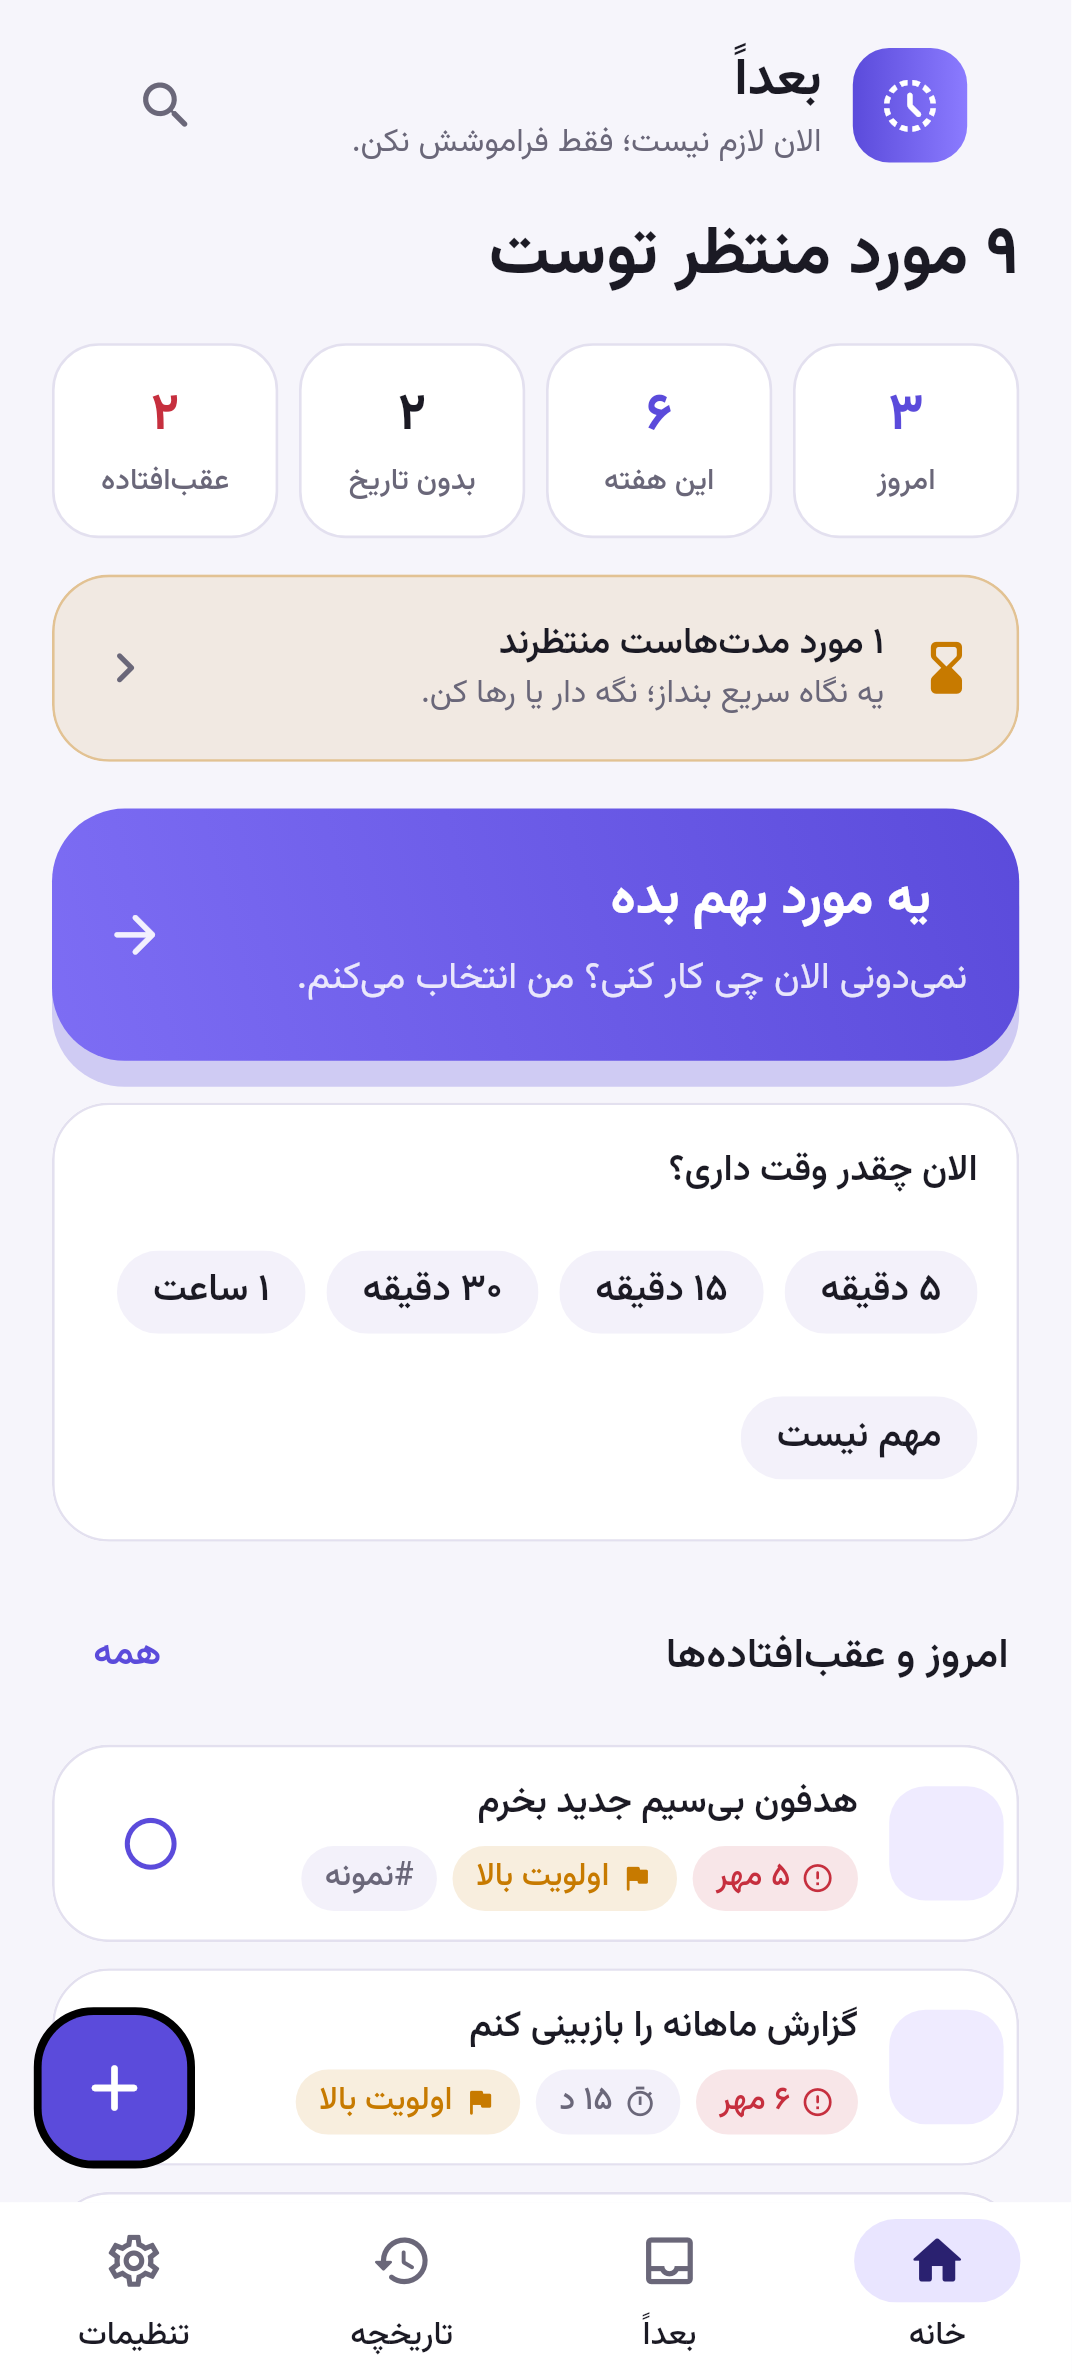
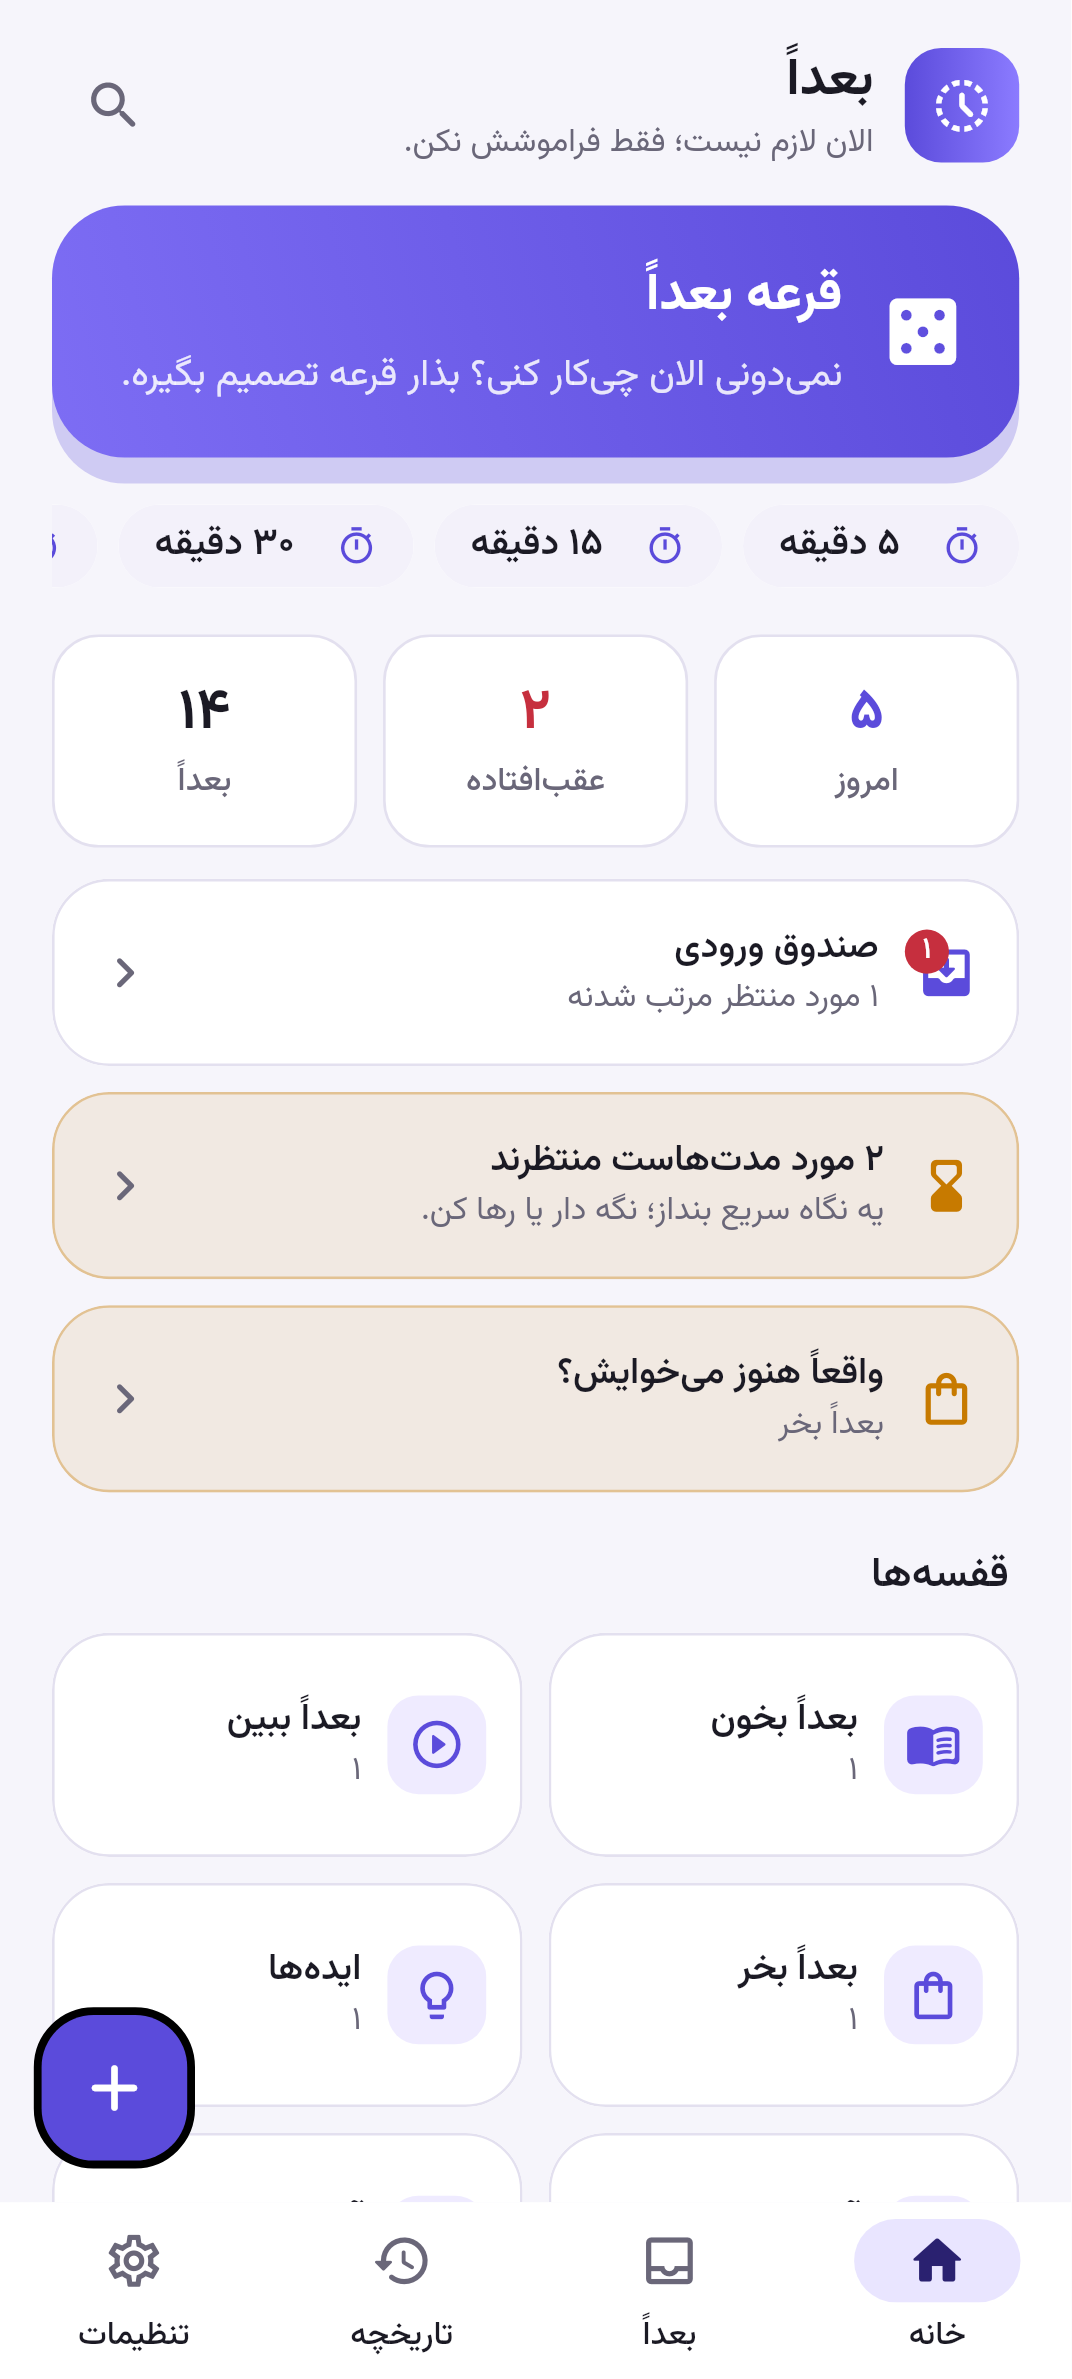
Support email, updated legal texts, new store listing and screenshots
Claude-Session: https://claude.ai/code/session_01BB7qb9wvzwSuojfatziWR9

diff --git a/test/screenshots_test.dart b/test/screenshots_test.dart
@@ -31,6 +31,7 @@ void main() {
       ..addFont(Future.value(ByteData.sublistView(
           File('$root/bin/cache/artifacts/material_fonts/MaterialIcons-Regular.otf').readAsBytesSync())));
     await icons.load();
+    FocusManager.instance.highlightStrategy = FocusHighlightStrategy.alwaysTouch;
     final out = Directory('store/assets/screenshots')..createSync(recursive: true);
     final key = GlobalKey();
     Future<void> shot(String name) async {
@@ -62,6 +63,32 @@ void main() {
       await env.controller.complete(items[8].id);
       await env.controller.pro.applyPurchase(ProPlans.month1);
     });
+    await tester.runAsync(() async {
+      final c = env.controller;
+      Future<void> add(String title, ItemType t, {String? url, int stage = 0, Map<String, Object?> extra = const {}, int ago = 3}) async {
+        final n = c.now();
+        final i = LaterItem(
+          id: 's${title.hashCode}',
+          title: title,
+          categoryId: 'other',
+          createdAt: n.subtract(Duration(days: ago)),
+          updatedAt: n,
+          type: t,
+          stage: stage,
+          url: url,
+          extra: extra,
+        );
+        await c.saveNew(i);
+      }
+
+      await add('مقالهی «قدرت عادتهای کوچک»', ItemType.read, url: 'https://example.com/habits');
+      await add('سخنرانی دربارهی تمرکز', ItemType.watch, url: 'https://www.youtube.com/watch?v=abc');
+      await add('هدفون بیسیم', ItemType.wishlist, extra: {'price': 2400000, 'currency': 'تومان'}, ago: 40);
+      await add('اپ یادآور آبخوردن', ItemType.idea, ago: 20);
+      await c.quickAdd('کتاب فیزیک کوانتوم');
+      await c.addPerson('سارا');
+      await c.seal(title: 'نامه به خودِ یکسالهی بعد', body: 'سلام', unlockAt: DateTime(2027, 6, 1));
+    });
     await show(env);
     await shot('01_home');
     await tester.tap(find.text(fa.navList).last);
@@ -69,17 +96,38 @@ void main() {
     await tester.tap(find.text(fa.navHome).last);
     await settle(tester);
     await tester.tap(find.text(fa.pickCardTitle));
-    await shot('03_decide');
+    await settle(tester);
+    await tester.tap(find.text(fa.roulettePick));
+    await settle(tester, rounds: 30);
+    await shot('03_roulette');
+    tester.state<NavigatorState>(find.byType(Navigator).first).pop();
+    await settle(tester);
+    await tester.ensureVisible(find.text(fa.shelfWishTitle).first);
+    await settle(tester);
+    await tester.tap(find.text(fa.shelfWishTitle).first);
+    await settle(tester);
+    await shot('04_wishlist');
+    tester.state<NavigatorState>(find.byType(Navigator).first).pop();
+    await settle(tester);
+    await tester.ensureVisible(find.text(fa.shelfFutureTitle).first);
+    await settle(tester);
+    await tester.tap(find.text(fa.shelfFutureTitle).first);
+    await settle(tester);
+    await shot('05_future');
+    tester.state<NavigatorState>(find.byType(Navigator).first).pop();
+    await settle(tester);
+    await tester.tap(find.text(fa.dashInbox).first);
+    await shot('06_inbox');
     tester.state<NavigatorState>(find.byType(Navigator).first).pop();
     await settle(tester);
     await tester.tap(find.byIcon(Icons.add_rounded).first);
     await settle(tester);
     await tester.enterText(find.byType(TextFormField).first, 'این مقاله رو بخونم');
-    await shot('04_add');
+    await shot('07_add');
     await tester.tapAt(const Offset(200, 40));
     await settle(tester);
     await tester.tap(find.text(fa.navSettings).last);
-    await shot('05_settings');
-    expect(out.listSync().length, greaterThanOrEqualTo(5));
+    await shot('08_settings');
+    expect(out.listSync().length, greaterThanOrEqualTo(8));
   });
 }

diff --git a/lib/core/config/app_config.dart b/lib/core/config/app_config.dart
@@ -38,7 +38,7 @@ class AppConfig {
   static const int privacyVersion = 1;
 
   /// Contact address shown in About / store listing. Leave empty to hide.
-  static const String supportEmail = '';
+  static const String supportEmail = 'manseyed2000@gmail.com';
 
   /// Maximum number of pending notifications kept scheduled with the OS
   /// (Android limits the number of alarms an app may hold).

diff --git a/store/LISTING_fa.md b/store/LISTING_fa.md
@@ -6,47 +6,55 @@
 **دستهبندی پیشنهادی:** ابزارها / بهرهوری
 
 ## توضیح کوتاه (≤ ۸۰ نویسه)
-لیست «بعداً»: هر چیزی که الان وقتش نیست را نگه دار، بدون حساب کاربری و آفلاین.
+هر چیزی که الان وقتش نیست را نگه دار: مقاله، ویدیو، خرید، ایده. بدون حساب، آفلاین.
 
 ## توضیح کامل
-«بعداً» یک لیست کوچک، سریع و زیبا برای چیزهایی است که الان وقتشان نیست اما نمیخواهید فراموششان کنید: یک مقاله، یک فیلم، یک خرید، یک ایده، یک تماس.
+«بعداً» جای چیزهاییه که الان وقتشان نیست ولی نمیخواهی فراموششان کنی: یک مقاله، یک فیلم، یک خرید، یک ایده، یک تماس. سریع ذخیره میکنی، بعداً که وقت داشتی، برنامه کمکت میکند از بینشان انتخاب کنی.
 
 **چطور کار میکند**
-• فقط بنویسید «این مقاله رو بخونم» و ذخیره کنید؛ همهی فیلدها اختیاریاند.
-• از مرورگر یا هر برنامهی دیگری «اشتراکگذاری ← بعداً» را بزنید تا لینک خودکار ذخیره شود.
-• تاریخ و ساعت بدهید تا خودش یادآوری کند؛ یا ندهید و بگویید «یه مورد بهم بده».
-• «الان ۱۵ دقیقه وقت دارم» را بزنید تا موردهای مناسب پیشنهاد شود.
-• موردهای مانده را با «بعداً، نه هیچوقت» مرور کنید؛ نگه دارید یا با خیال راحت بیخیالش شوید.
+• فقط بنویس «این مقاله رو بخونم» و ذخیره کن. همهی فیلدها اختیاریاند.
+• از مرورگر یا هر برنامهی دیگری «اشتراکگذاری ← بعداً» را بزن. بپرس کجا نگهش دارم؛ اگر جوابی ندادی، در صندوق ورودی میماند و چیزی از دست نمیرود.
+• تاریخ و ساعت بده تا سر وقت یادآوری کند.
+• نمیدانی الان چه کار کنی؟ «قرعه بعداً» یکی را برایت انتخاب میکند.
+
+**قفسهها**
+• بعداً بخون: مقالهها و لینکها، با وضعیت نخوانده، در حال خواندن و خوانده.
+• بعداً ببین: ویدیو، فیلم و سریال.
+• بعداً بخر: قیمت را ثبت کن و بعد از مدتی بپرس «هنوز میخوایش؟».
+• ایدهها: ایدهها اینجا میمانند تا وقتش برسد.
+• آدمها: «بعداً به علی زنگ بزن». مخاطب را با انتخابگر خود سیستم انتخاب میکنی و بدون مجوز مخاطبین.
+• کپسول زمانی و پیام به خودِ آینده: چیزی را تا یک تاریخ از جلوی چشمت بردار. همان روز اعلان میآید و برمیگردد.
 
 **حریم خصوصی اول**
 • بدون حساب کاربری، بدون سرور، بدون تبلیغات و بدون ابزار تحلیل.
-• همهی اطلاعات فقط روی دستگاه شماست؛ نسخهی بازار مجوز اینترنت ندارد.
-• پشتیبانگیری و بازیابی با یک فایل `.later`.
+• همهی اطلاعات فقط روی گوشی خودت میماند؛ نسخهی بازار مجوز اینترنت ندارد.
+• پشتیبانگیری و بازیابی با یک فایل `.later`، شامل همهی بخشها.
 
-**امکانات رایگان:** ذخیرهی نامحدود، دستهبندی، جستجو، یادآوری، بهتعویقانداختن، پیشنهاد هوشمند پایه، اشتراکگذاری، تم روشن/تیره، ویجت، تقویم شمسی.
-**Pro (۱، ۳ یا ۶ ماهه):** پیشنهاد هوشمند پیشرفته، فیلتر و جستجوی پیشرفته، آمار و تاریخچهی کامل، دستههای بیشتر، یادآوری تکرارشونده، ویجت پیشرفته، تم و آیکونهای بیشتر، پشتیبان خودکار و خروجی CSV/متن. پایان اشتراک هیچ اطلاعاتی را پاک یا قفل نمیکند.
+**رایگان، بدون محدودیت اذیتکننده:** ذخیرهی نامحدود، صندوق ورودی، قرعهی پایه، همهی قفسهها، آدمها، کپسول و پیام (تا ۲ مورد قفلشده)، جستجو در همهچیز، یادآوری، اشتراکگذاری، تم روشن و تیره، ویجت، تقویم شمسی، پشتیبانگیری دستی.
+**Pro (۱، ۳ یا ۶ ماهه):** قرعهی هوشمند با فیلتر وقت و انرژی، پیشنهاد مقصد در صندوق ورودی، آمار و تاریخچهی کامل قفسهها، قیمت هدف و تاریخچهی قیمت، مرور ایدهها، تاریخچهی ارتباط با آدمها، کپسول و پیام نامحدود با پیوست، یادآوری تکرارشونده، رنگ و آیکون بیشتر، پشتیبان خودکار و خروجی CSV. پایان اشتراک هیچ اطلاعاتی را پاک یا قفل نمیکند.
 
 ## مجوزها و دلیل آنها
 | مجوز | دلیل |
 |---|---|
-| اعلانها (Android 13+) | نمایش یادآوریها؛ فقط هنگام اولین یادآوری پرسیده میشود |
+| اعلانها (Android 13+) | نمایش یادآوریها؛ در پایان معرفی اولیه پرسیده میشود |
 | هشدار دقیق | نمایش یادآوری سر وقت (اختیاری) |
 | اجرا پس از روشن شدن دستگاه | تنظیم مجدد یادآوریها بعد از ریستارت |
 | ارتباط با کافهبازار | فقط خرید Pro |
-| (بدون) اینترنت، مخاطبین، مکان، حافظه، میکروفون، دوربین | — |
+| (بدون) اینترنت، مخاطبین، مکان، حافظه، میکروفون، دوربین | مخاطب فقط از راه انتخابگر سیستم و بدون مجوز |
 
 ## محصولات درونبرنامهای (مصرفی)
 `later_pro_1m` = ۱۹٬۰۰۰ تومان · `later_pro_3m` = ۵۵٬۰۰۰ تومان · `later_pro_6m` = ۱۰۰٬۰۰۰ تومان
 
 ## داراییها
-`store/assets/icon_512.png`، `store/assets/feature_graphic_1024x500.png`، `store/assets/screenshots/*` (تولید با `flutter test tool/screenshots_test.dart`).
+`store/assets/icon_512.png`، `store/assets/feature_graphic_1024x500.png`، `store/assets/screenshots/*` (تولید با `SCREENSHOTS=1 flutter test test/screenshots_test.dart`).
 سیاست حریم خصوصی: متن `assets/legal/privacy_fa.txt` را روی یک صفحهی وب عمومی منتشر و نشانی را در پنل بازار وارد کنید (بازار آدرس URL میخواهد).
 
 ## چکلیست انتشار
 - [ ] کلید امضا ساخته و پشتیبانگیری شد (خارج از git)
 - [ ] `LATER_PRO_SIGNING_KEY` و `BAZAAR_RSA_KEY` تعیین شد
 - [ ] محصولات مصرفی در پنل بازار ساخته شد (SKU بالا)
-- [ ] `AppConfig.supportEmail` تنظیم شد؛ متنهای حقوقی توسط متخصص بازبینی شد
+- [x] `AppConfig.supportEmail` تنظیم شد (manseyed2000@gmail.com)
+- [ ] متنهای حقوقی را قبل از انتشار یک نفر آشنا بخواند
 - [ ] نسخهی آزمایشی روی دستگاه واقعی: یادآوری (ریستارت/فورساستاپ)، اشتراکگذاری، ویجت، پشتیبان/بازیابی، خرید واقعی در بازار
 - [ ] AAB/APK امضاشده با کلید واقعی ساخته شد
 - [ ] اسکرینشاتها و گرافیک ویژه بارگذاری شد
